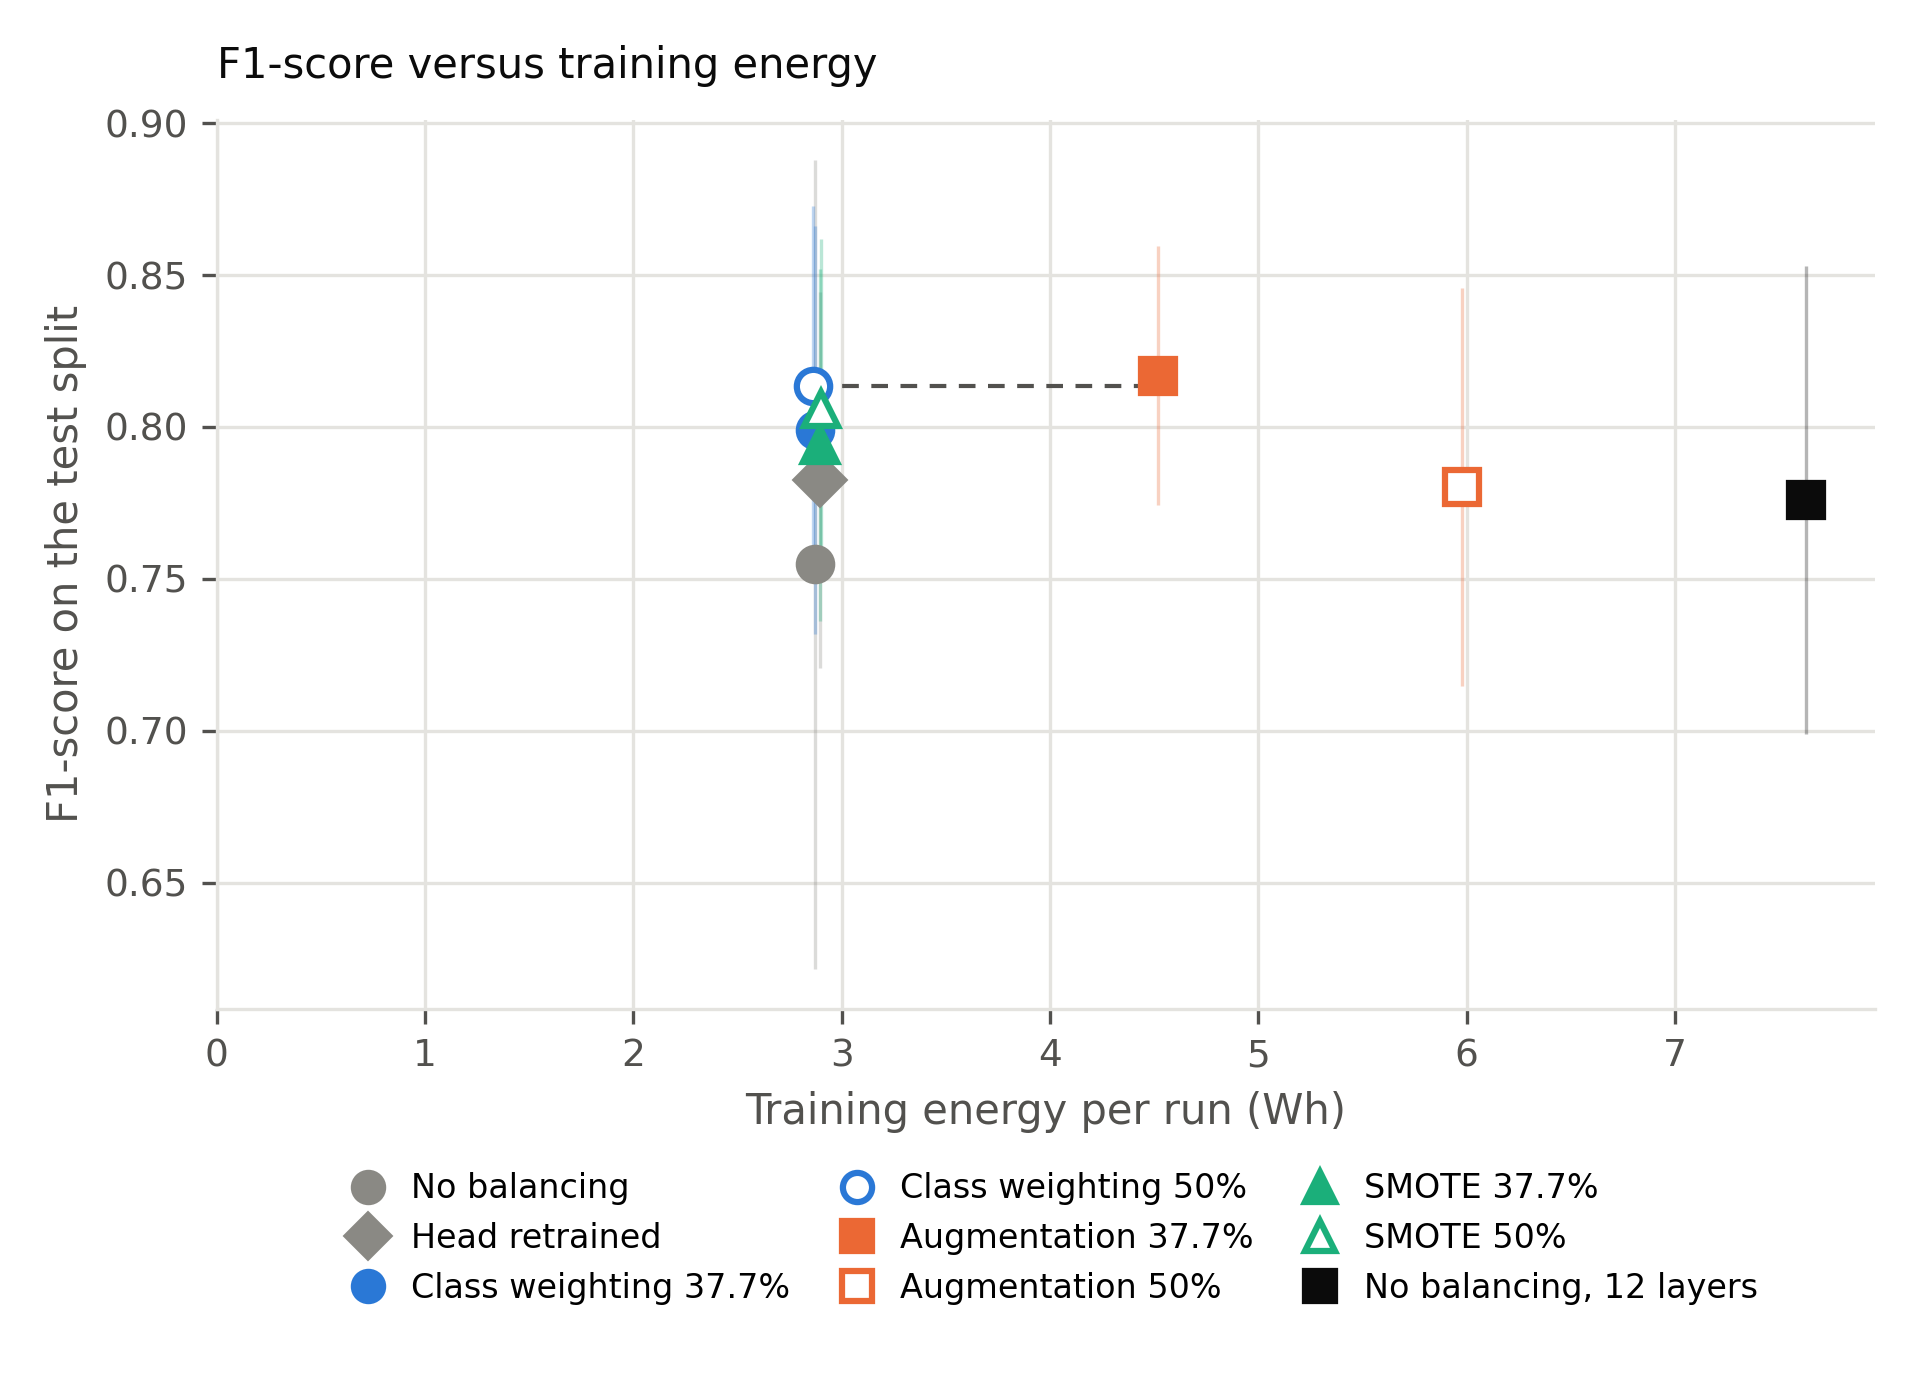
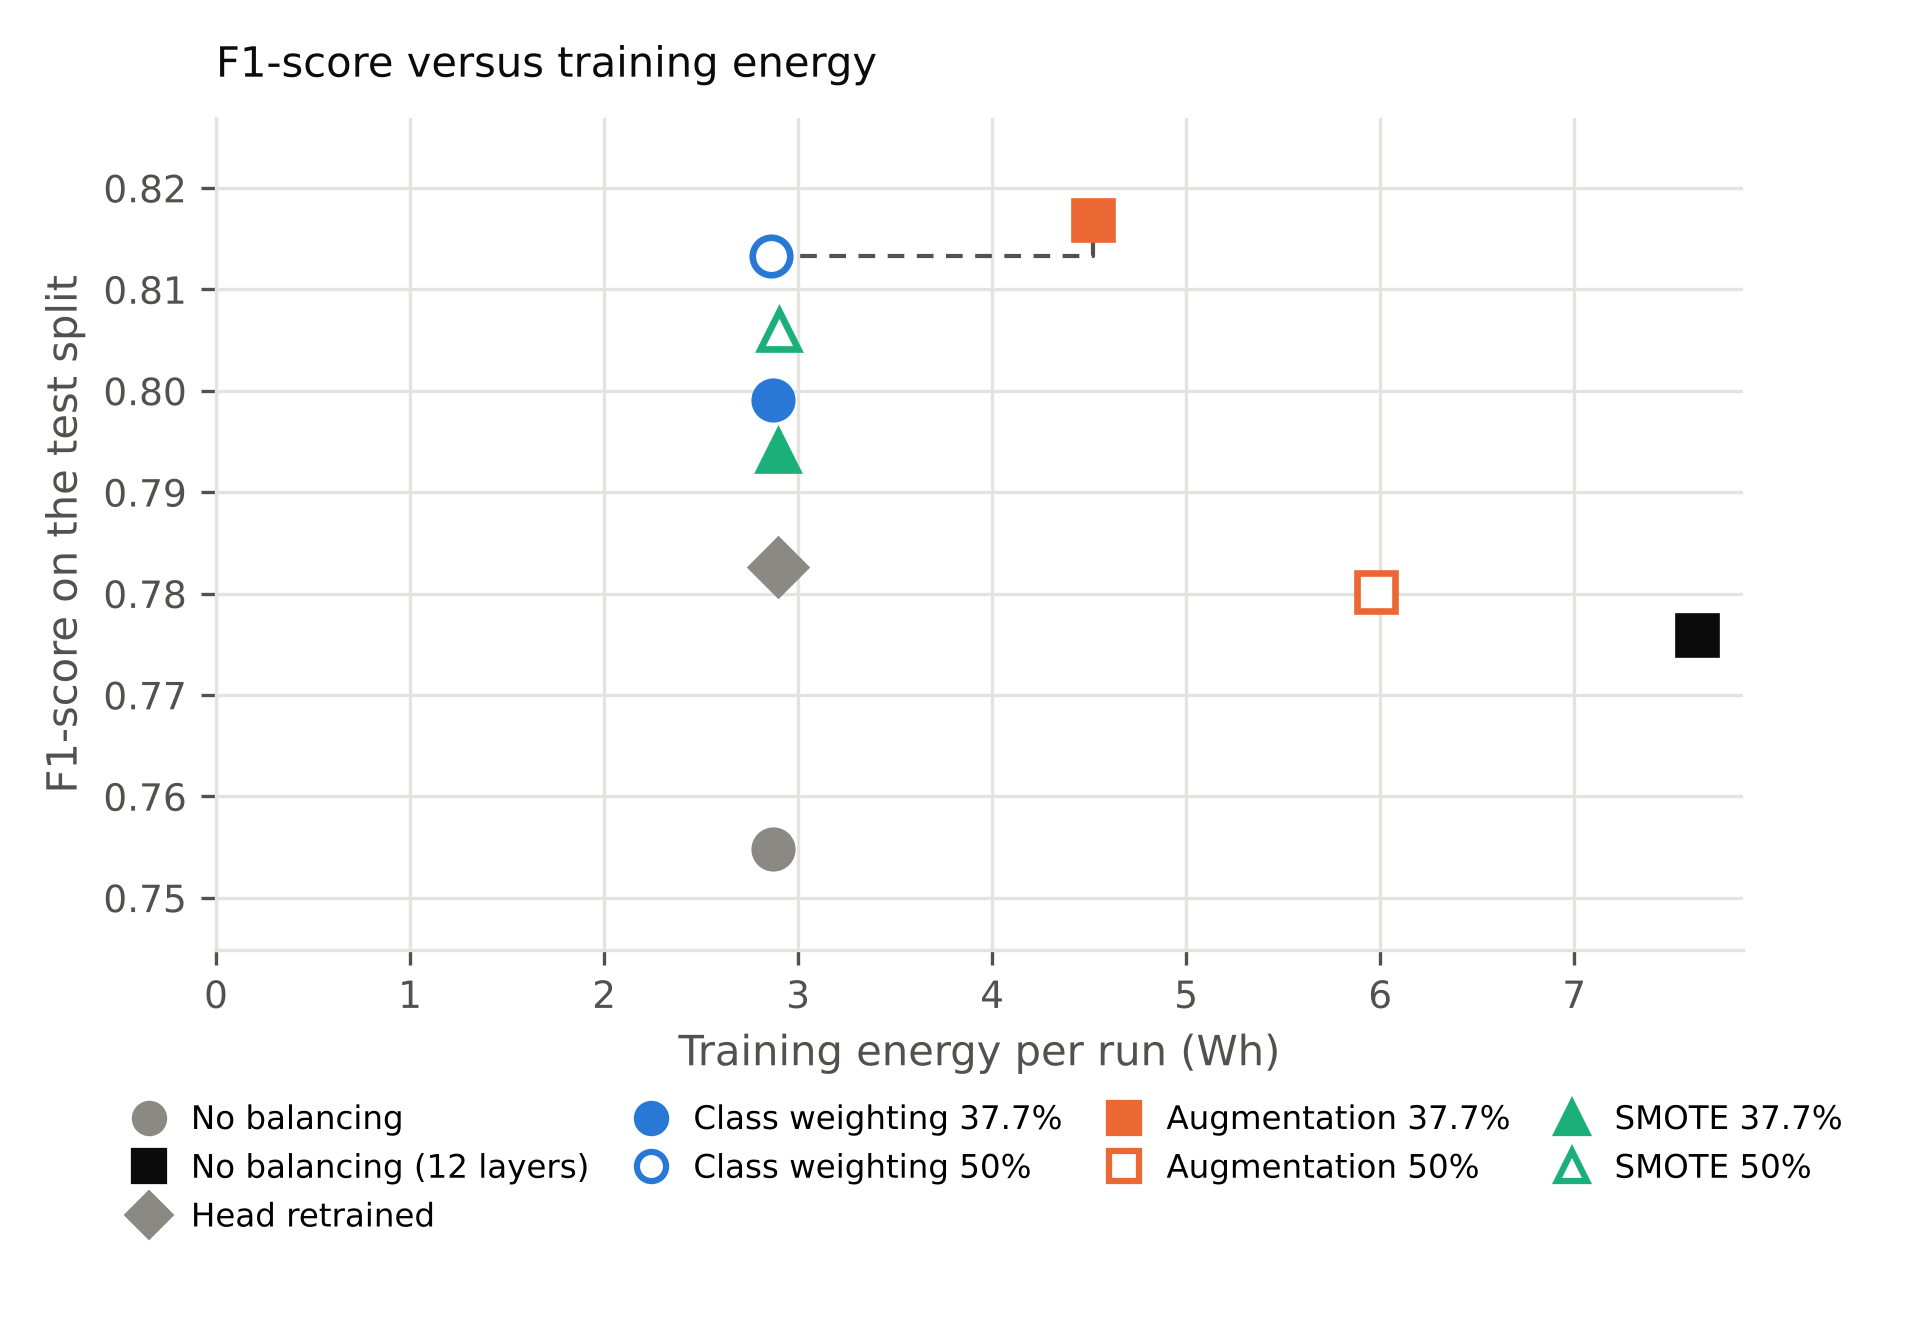
Pareto figure: no spread bars, zoomed F1 axis, legend in the order of Table 3
Claude-Session: https://claude.ai/code/session_017rhwVyM5rhv5k17AN45Ux5

diff --git a/scripts/5_plots.py b/scripts/5_plots.py
@@ -208,15 +208,16 @@ def energy_style(scenario, share):
 
 
 def plot_energy_pareto(rows, energy_rows, out):
-    """Mean F1-score (main run, seeds 0-9) against mean training energy per run (energy run,
-    CodeCarbon, GPU + CPU + RAM) for every scenario, with one standard deviation across seeds on
-    both axes. Filled markers: 37.7% smell in the training split, hollow: 50%. The dashed steps
-    join the Pareto-optimal scenarios, those no other scenario beats on both lower energy and
-    higher F1-score."""
+    """Mean F1-score (seeds 0-9) against mean training energy per run (CodeCarbon, GPU + CPU +
+    RAM) for every scenario, without spread bars so the y axis can zoom in on the differences
+    between scenarios (Table 3 and Table 4 give the standard deviations). Filled markers: 37.7%
+    smell in the training split, hollow: 50%. The dashed steps join the Pareto-optimal scenarios,
+    those no other scenario beats on both lower energy and higher F1-score. The legend follows
+    the rows of Table 3: the unbalanced runs, then one column per balancing method."""
     plt = setup()
     from matplotlib.lines import Line2D
-    fig, ax = plt.subplots(figsize=(6.4, 4.6))
-    points, handles = [], []
+    fig, ax = plt.subplots(figsize=(6.4, 4.4))
+    points, found = [], {}
     for scenario, share, name, _, layers in ENERGY_ROWS:
         energy = energy_totals(energy_rows, scenario, share, layers)
         f1 = [float(r["f1"]) for r in rows
@@ -224,18 +225,15 @@ def plot_energy_pareto(rows, energy_rows, out):
         if not energy or not f1:
             continue
         x, y = statistics.mean(e["wh"] for e in energy), statistics.mean(f1)
-        xs = statistics.stdev(e["wh"] for e in energy) if len(energy) > 1 else 0.0
-        ys = statistics.stdev(f1) if len(f1) > 1 else 0.0
         marker, color, filled = energy_style(scenario, share)
         if layers == "12":
             marker, color, filled = "s", INK, True
-        ax.errorbar([x], [y], xerr=[xs], yerr=[ys], fmt="none", ecolor=color, elinewidth=0.8, alpha=0.3)
-        ax.plot([x], [y], marker=marker, markersize=8, linestyle="none", zorder=3, color=color,
-                markerfacecolor=color if filled else "white", markeredgecolor=color, markeredgewidth=1.5)
-        label = name
-        handles.append(Line2D([], [], marker=marker, linestyle="none", markersize=7, color=color,
-                              markerfacecolor=color if filled else "white", markeredgecolor=color,
-                              markeredgewidth=1.5, label=label.replace(" (SMOTE control)", "")))
+        ax.plot([x], [y], marker=marker, markersize=9, linestyle="none", zorder=3, color=color,
+                markerfacecolor=color if filled else "white", markeredgecolor=color, markeredgewidth=1.6)
+        found[(scenario, share, layers)] = Line2D(
+            [], [], marker=marker, linestyle="none", markersize=7, color=color,
+            markerfacecolor=color if filled else "white", markeredgecolor=color, markeredgewidth=1.5,
+            label=name.replace(" (SMOTE control)", "").replace(", 12 layers", " (12 layers)"))
         points.append((x, y))
     # Pareto front: going up in energy, keep each scenario that beats every cheaper one on F1-score
     front, best = [], -1.0
@@ -246,11 +244,20 @@ def plot_energy_pareto(rows, energy_rows, out):
     if len(front) > 1:
         ax.step([p[0] for p in front], [p[1] for p in front], where="post", color=MUTED, linewidth=1,
                 linestyle=(0, (4, 3)), zorder=2)
+    ys = [p[1] for p in points]
+    pad = max(0.01, 0.15 * (max(ys) - min(ys)))
+    ax.set_ylim(min(ys) - pad, max(ys) + pad)
     ax.set_xlim(left=0)
     ax.set_xlabel("Training energy per run (Wh)", color=MUTED)
     ax.set_ylabel("F1-score on the test split", color=MUTED)
-    ax.legend(handles=handles, frameon=False, fontsize=8, loc="upper center", bbox_to_anchor=(0.5, -0.15),
-              ncol=3, handletextpad=0.3, columnspacing=1.0)
+    # Matplotlib fills legend columns top to bottom: one column for the unbalanced runs (no
+    # balancing, 12 layers, head retrained) and one per balancing method, as in Table 3
+    blank = Line2D([], [], linestyle="none", label=" ")
+    order = [[("none", "27.5", "4"), ("none", "27.5", "12"), ("head", "27.5", "4")]] + [
+        [(m, "37.7", "4"), (m, "50.0", "4")] for m, _, _, _ in METHODS]
+    handles = [found.get(k, blank) for column in order for k in column + [None] * (3 - len(column))]
+    ax.legend(handles=handles, frameon=False, fontsize=7.8, loc="upper center", bbox_to_anchor=(0.5, -0.15),
+              ncol=4, handletextpad=0.3, columnspacing=0.9)
     style(ax, "F1-score versus training energy", grid_axis="both")
     save(plt, fig, out)
 
